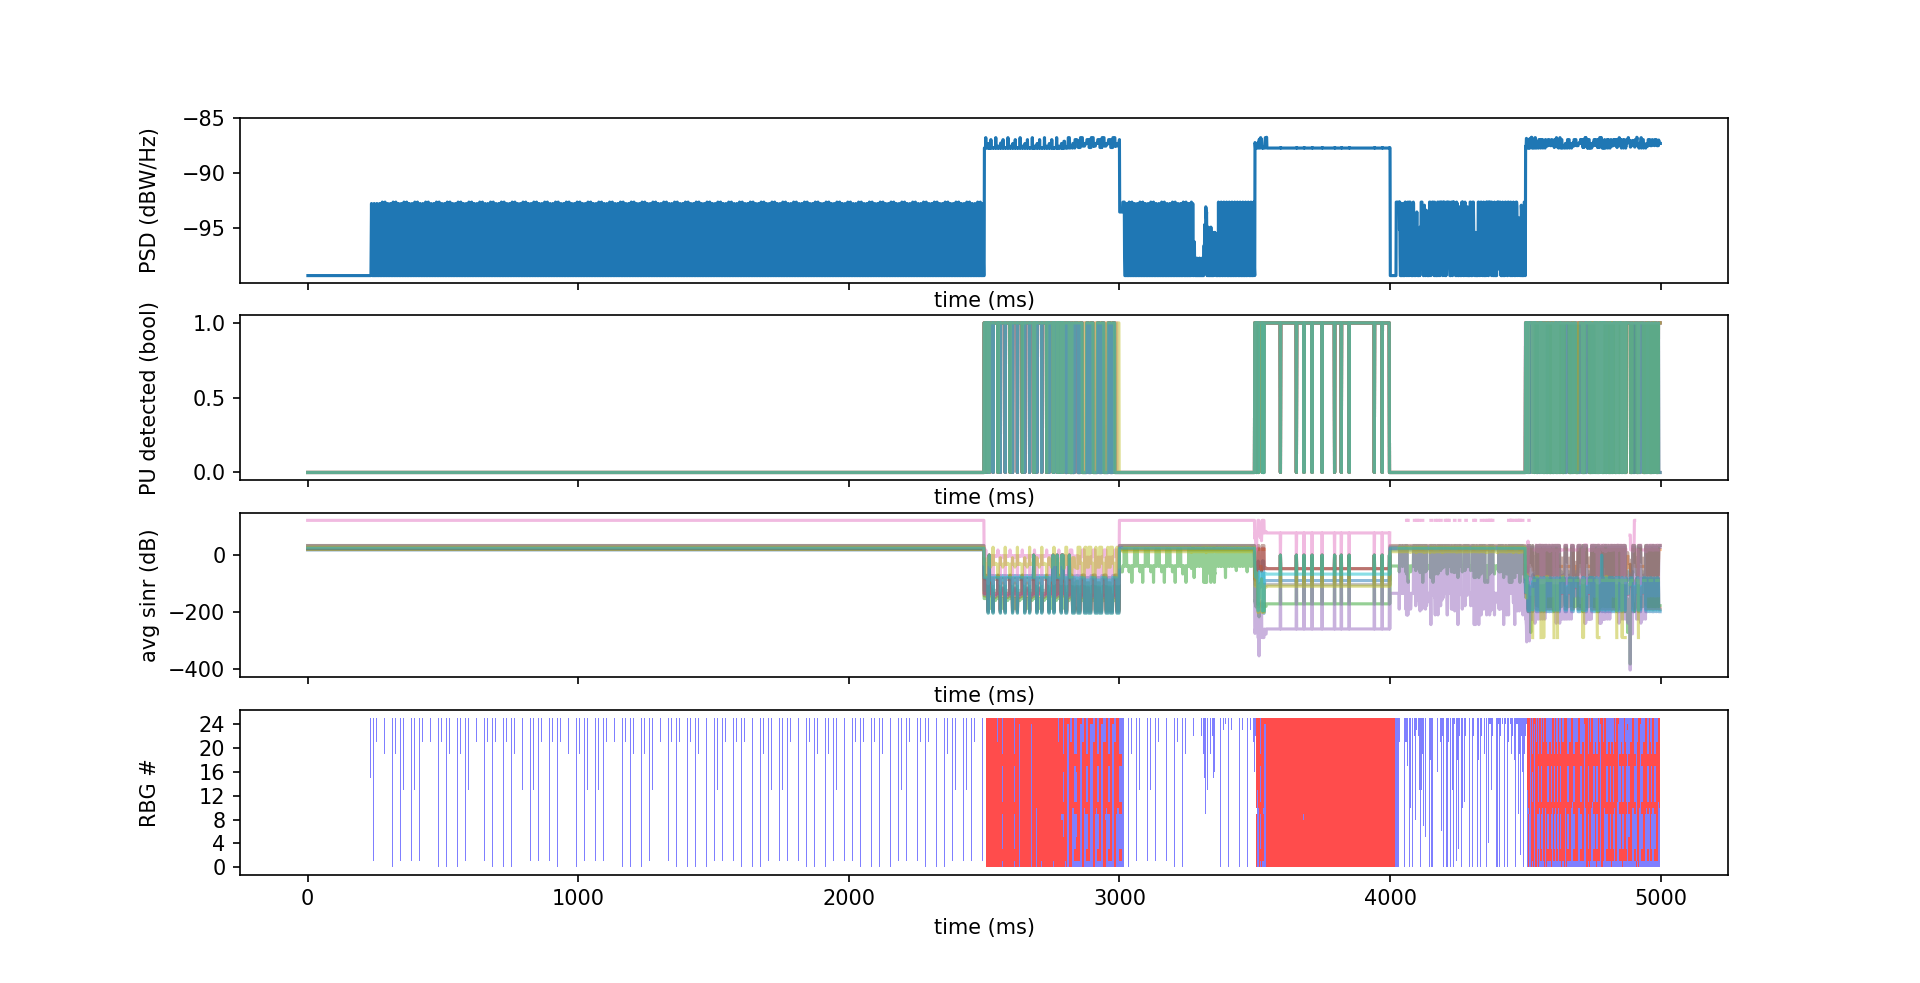
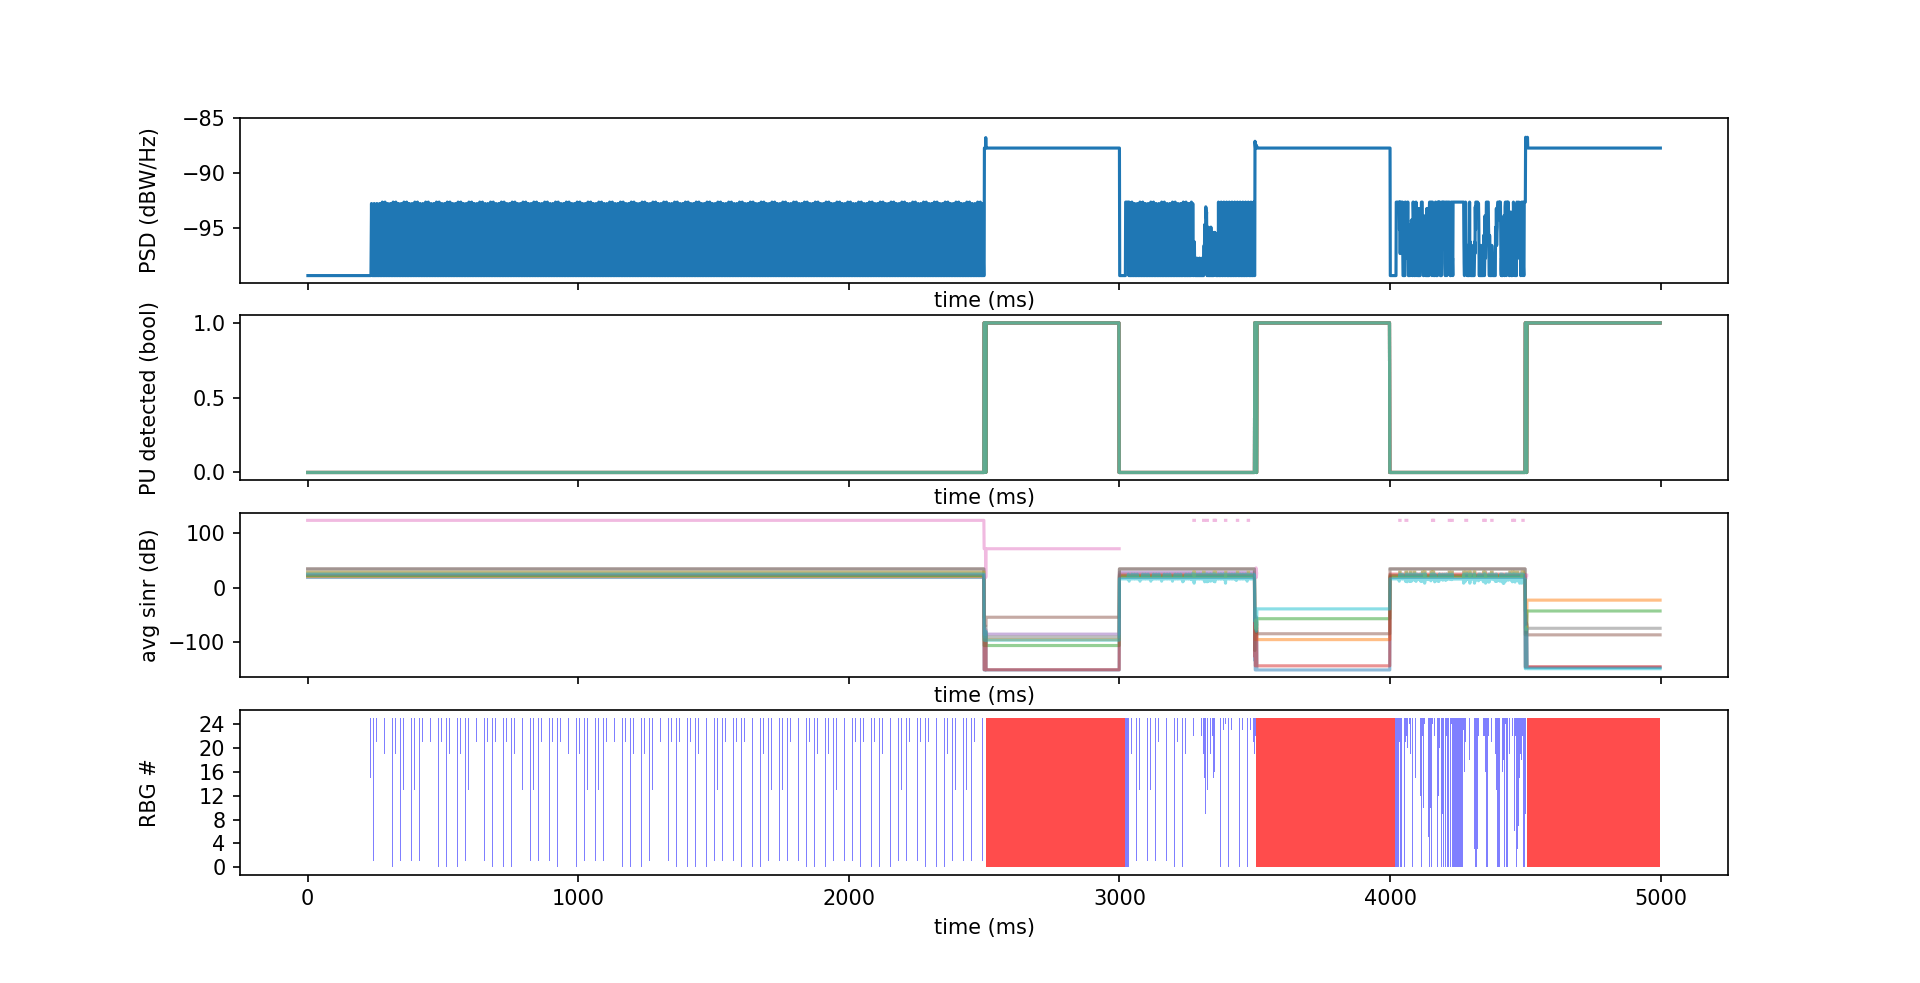
Separate receival of sensing messages from merge/fusion

diff --git a/src/lte/model/lte-enb-mac.cc b/src/lte/model/lte-enb-mac.cc
@@ -627,14 +627,7 @@ LteEnbMac::DoSubframeIndication (uint32_t frameNo, uint32_t subframeNo)
     }
 
   //Cognitive engine has to check channelOccupation and decide whether to flag or not specific RBs
-  dlparams.sensedBitmap = 0;
-  if (unexpectedChannelAccessBitmap.size() > 0)
-  {
-      auto x = unexpectedChannelAccessBitmap.rbegin();
-      if (x->first + 1 >= m_frameNo)
-          if (x->second.size() > 0)
-              dlparams.sensedBitmap = x->second.rbegin()->second;
-  }
+  dlparams.sensedBitmap = mergeSensingReports();
 
   //Calls for the scheduler
   m_schedSapProvider->SchedDlTriggerReq (dlparams);
@@ -1399,20 +1392,6 @@ void LteEnbMac::RecvCognitiveMessage(Ptr<Packet> p)
     //Then register UE reports
     channelOccupation.at(reg.ReceivedFrameNo).at(reg.ReceivedSubframeNo).emplace(reg.OriginAddress,reg);
 
-
-
-    //First create map for sensed frames
-    if(unexpectedChannelAccessBitmap.find(reg.SensedFrameNo) == unexpectedChannelAccessBitmap.end())
-    {
-        unexpectedChannelAccessBitmap.emplace(reg.SensedFrameNo, std::map <uint64_t, uint32_t> ());
-    }
-
-    //After that, create map for sensed subframes
-    if(unexpectedChannelAccessBitmap.at(reg.SensedFrameNo).find(reg.SensedSubframeNo) == unexpectedChannelAccessBitmap.at(reg.SensedFrameNo).end())
-    {
-        unexpectedChannelAccessBitmap.at(reg.SensedFrameNo).emplace(reg.SensedSubframeNo, 0);
-    }
-
     //Then register UE sensed reports
     unexpectedChannelAccessBitmap.at(reg.SensedFrameNo).at(reg.SensedSubframeNo) |= reg.UnexpectedAccessBitmap;
     uint32_t val = unexpectedChannelAccessBitmap.at(reg.SensedFrameNo).at(reg.SensedSubframeNo);
@@ -1448,23 +1427,38 @@ void LteEnbMac::RecvCognitiveMessageC(Ptr<CognitiveLteControlMessage> p)
     channelOccupation.at(reg.ReceivedFrameNo).at(reg.ReceivedSubframeNo).emplace(reg.OriginAddress,reg);
 
 
+    return;
+}
+
+//Implements the fusion algorithm for collaborative sensing reports
+uint64_t LteEnbMac::mergeSensingReports()
+{
+    uint64_t sensedBitmap = 0;
+    if (channelOccupation.size() > 0)
+    {
+        auto frameIt = channelOccupation.rbegin();
+
+        for (; frameIt != channelOccupation.rend() && frameIt->first >= m_frameNo - 1; frameIt++)
+        {
+
+            for (auto subframeIt : frameIt->second)
+            {
+                for (auto origAddr : subframeIt.second)
+                {
+                    sensedBitmap |= origAddr.second.UnexpectedAccessBitmap;
+                }
+            }
+        }
+
+    }
 
     //First create map for sensed frames
-    if(unexpectedChannelAccessBitmap.find(reg.SensedFrameNo) == unexpectedChannelAccessBitmap.end())
-    {
-        unexpectedChannelAccessBitmap.emplace(reg.SensedFrameNo, std::map <uint64_t, uint32_t> ());
-    }
+    unexpectedChannelAccessBitmap.emplace(m_frameNo, std::map <uint64_t, uint32_t> ());
 
     //After that, create map for sensed subframes
-    if(unexpectedChannelAccessBitmap.at(reg.SensedFrameNo).find(reg.SensedSubframeNo) == unexpectedChannelAccessBitmap.at(reg.SensedFrameNo).end())
-    {
-        unexpectedChannelAccessBitmap.at(reg.SensedFrameNo).emplace(reg.SensedSubframeNo, 0);
-    }
+    unexpectedChannelAccessBitmap.at(m_frameNo).emplace(m_subframeNo, sensedBitmap);
 
-    //Then register UE sensed reports
-    unexpectedChannelAccessBitmap.at(reg.SensedFrameNo).at(reg.SensedSubframeNo) |= reg.UnexpectedAccessBitmap;
-    uint32_t val = unexpectedChannelAccessBitmap.at(reg.SensedFrameNo).at(reg.SensedSubframeNo);
-    return;
+    return sensedBitmap;
 }
 
 

diff --git a/src/lte/model/lte-enb-mac.h b/src/lte/model/lte-enb-mac.h
@@ -474,6 +474,7 @@ public://todo: implement this properly through the SAP
     std::map <uint64_t, std::map<uint64_t, uint32_t> > unexpectedChannelAccessBitmap;
     void RecvCognitiveMessage(Ptr<Packet> p);
     void RecvCognitiveMessageC(Ptr<CognitiveLteControlMessage> p);
+    uint64_t mergeSensingReports();
 
 };
 
